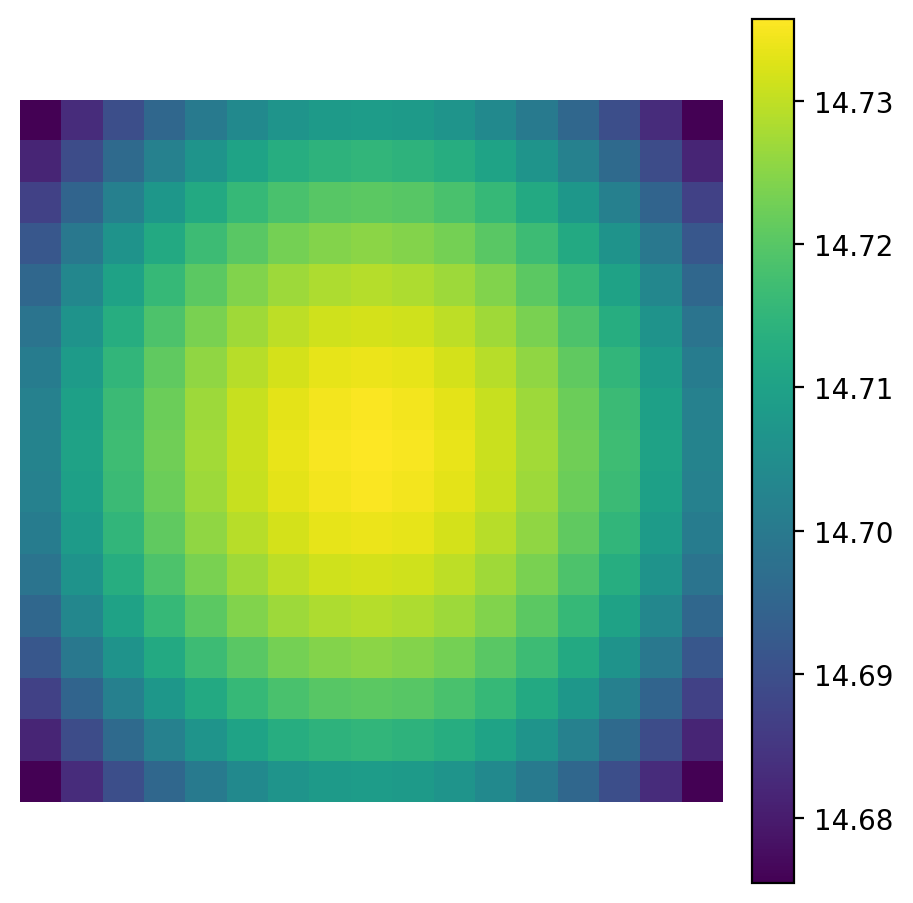
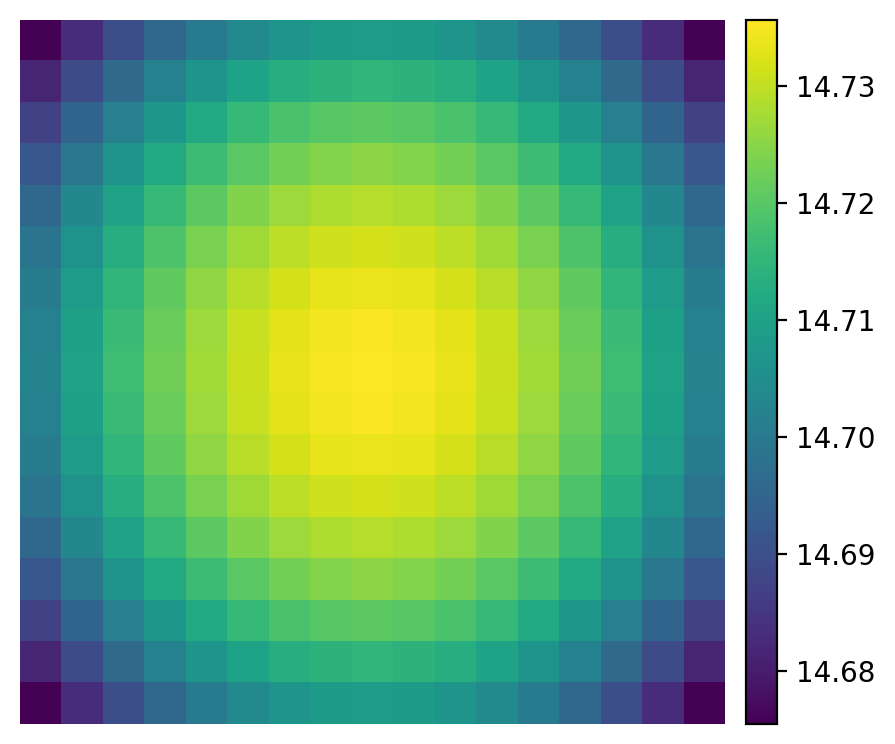
.

diff --git a/MonSTERs/monster_single_grid_t0.py b/MonSTERs/monster_single_grid_t0.py
@@ -8,7 +8,6 @@ matplotlib.use("Agg")
 
 import matplotlib.pyplot as plt
 from matplotlib.colors import Normalize
-from matplotlib.gridspec import GridSpec
 import numpy as np
 
 from v12 import TriadMonSTERFastVec, apply_monster_triad_fast_vec
@@ -33,7 +32,8 @@ QUERY_T_VALUE = 0.0
 UNIT_SCALE = 1.0
 
 FIGSIZE = (4.4, 4.8)
-CBAR_RATIO = 0.06
+CBAR_WIDTH = 0.035
+CBAR_PAD = 0.025
 
 ETA4_NEGPOS = np.diag([-1.0, 1.0, 1.0, 1.0]).astype(np.float64)
 
@@ -100,19 +100,7 @@ def score_transformed_vectors(
 
 def plot_grid(score_map: np.ndarray, output_path: Path) -> None:
     fig = plt.figure(figsize=FIGSIZE)
-    grid = GridSpec(
-        1,
-        2,
-        figure=fig,
-        left=0.06,
-        right=0.94,
-        top=0.96,
-        bottom=0.06,
-        wspace=0.08,
-        width_ratios=[1.0, CBAR_RATIO],
-    )
-    axis = fig.add_subplot(grid[0, 0])
-    cbar_axis = fig.add_subplot(grid[0, 1])
+    axis = fig.add_axes([0.06, 0.06, 0.80, 0.90])
 
     image = axis.imshow(
         score_map,
@@ -120,6 +108,11 @@ def plot_grid(score_map: np.ndarray, output_path: Path) -> None:
         norm=Normalize(vmin=float(score_map.min()), vmax=float(score_map.max())),
     )
     axis.axis("off")
+    axis.set_aspect("equal", adjustable="box")
+    fig.canvas.draw()
+
+    position = axis.get_position()
+    cbar_axis = fig.add_axes([position.x1 + CBAR_PAD, position.y0, CBAR_WIDTH, position.height])
     fig.colorbar(image, cax=cbar_axis)
 
     output_path.parent.mkdir(parents=True, exist_ok=True)
